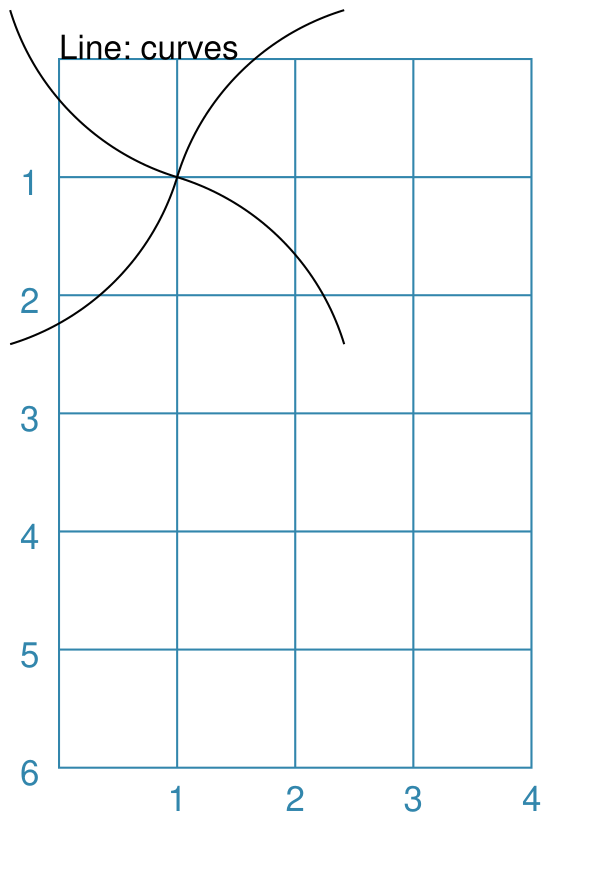
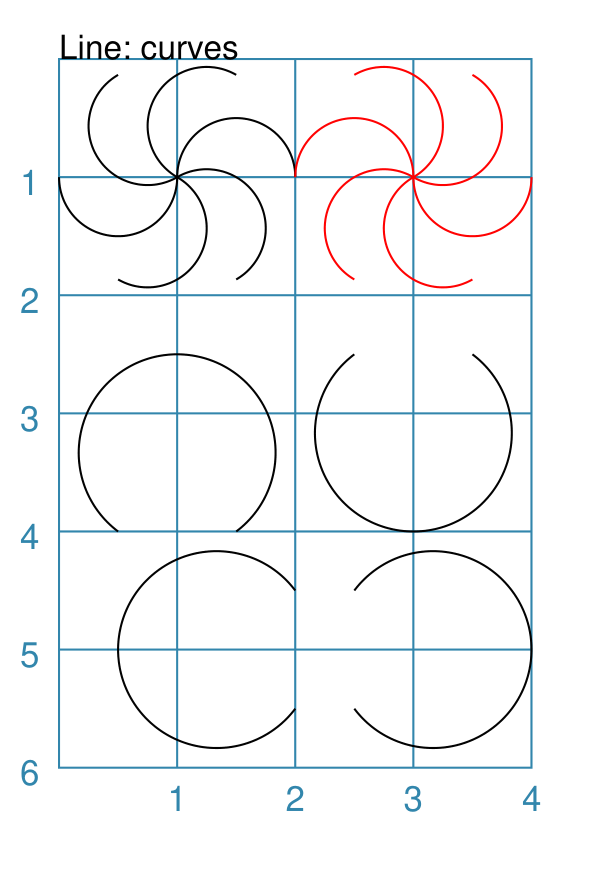
Add circle as arrow_style for a Line

diff --git a/protograf/base.py b/protograf/base.py
@@ -1860,8 +1860,8 @@ class BaseShape:
                 "s",
                 "triangle",  # default
                 "t",
-                # "circle",
-                # "c",
+                "circle",
+                "c",
             ]:
                 issue.append(f'"{self.arrow_style}" is an invalid arrow_style!')
                 correct = False
@@ -3071,7 +3071,7 @@ class BaseShape:
                 case "triangle" | "t":
                     pass
                 case "spear" | "s":
-                    pt4 = geoms.Point(the_tip.x, the_tip.y + 2 * head_height)
+                    pt4 = geoms.Point(the_tip.x, the_tip.y + 2.0 * head_height)
                     vertexes.append(pt4)
                 case "angle" | "angled" | "a":
                     kwargs["stroke_width"] = self.stroke_width
@@ -3080,10 +3080,18 @@ class BaseShape:
                 case "notch" | "notched" | "n":
                     pt4 = geoms.Point(the_tip.x, the_tip.y + 0.5 * head_height)
                     vertexes.append(pt4)
-            # set props
+                case "circle" | "c":
+                    pt4 = geoms.point_on_line(point_end, point_start, head_height / 2.0)
+            # ---- draw and set props
             # print(f'{vertexes=}' {kwargs=}')
             self._debug(cnv, vertices=vertexes)  # needs: self.debug=True
-            cnv.draw_polyline(vertexes)
+            match _lower(self.arrow_style):
+                case "circle" | "c":
+                    cnv.draw_circle(center=(pt4.x, pt4.y), radius=head_width / 2.0)
+                    kwargs["rotation"] = None
+                    kwargs["rotation_point"] = None
+                case _:
+                    cnv.draw_polyline(vertexes)
             self.set_canvas_props(cnv=cnv, index=None, **kwargs)
 
     def make_path_vertices(self, cnv, vertices: list, v1: int, v2: int):

diff --git a/examples/core/customised_line.py b/examples/core/customised_line.py
@@ -73,15 +73,17 @@ PageBreak()
 Blueprint(stroke_width=0.5)
 Text(common=txt, text="Line: angle")
 
-Line(cx=1, cy=1, angle=45, length=2, stroke="red")
-Line(cx=3, cy=1, angle=225, length=2, stroke_width=1.5)
+Line(cx=1, cy=1, angle=45, length=2, stroke="red", arrow_style="circle")
+Line(cx=3, cy=1, angle=225, length=2, stroke_width=1.5,
+     arrow_style="circle", arrow_width=0.2)
 
 Circle(cx=2, cy=3, radius=1)
 Line(cx=2, cy=3, angle=45, length=2, stroke="red", arrow_width=0.2)
 Line(cx=2, cy=3, angle=135, length=2, stroke_width=1.5, arrow_width=0.2)
 
-Line(cx=1, cy=5, angle=135, length=2, stroke_width=1.5)
-Line(cx=3, cy=5, angle=315, length=2, stroke="red")
+Line(cx=1, cy=5, angle=135, length=2, stroke_width=1.5,
+     arrow_style="circle", arrow_width=0.2)
+Line(cx=3, cy=5, angle=315, length=2, stroke="red", arrow_style="circle")
 PageBreak()
 
 # ---- line - connections: circle

diff --git a/protograf/shapes.py b/protograf/shapes.py
@@ -858,7 +858,7 @@ class DotShape(BaseShape):
         self.fill = self.stroke
         center = muPoint(x, y)
         # ---- draw dot
-        # feedback(f'*** Dot {size=} {x=} {y=}')
+        # feedback(f'*** Dot {size=} {x=} {y=} {center=} {self._u.radius=}')
         cnv.draw_circle(center=center, radius=self._u.radius)
         kwargs["rotation"] = self.rotation
         kwargs["rotation_point"] = center

diff --git a/docs/source/customised_shapes.rst b/docs/source/customised_shapes.rst
@@ -578,9 +578,12 @@ A line can be drawn at a centre point by providing the following properties:
       .. code:: python
 
         Line(cx=1, cy=1, angle=45,
-             length=2, stroke="red")
+             length=2, stroke="red",
+             arrow_style="circle")
         Line(cx=3, cy=1, angle=225,
-             length=2, stroke_width=1.5)
+             length=2, stroke_width=1.5,
+             arrow_style="c",
+             arrow_width=0.2)
 
         Circle(cx=2, cy=3, radius=1)
         Line(cx=2, cy=3, angle=45, length=2,
@@ -589,20 +592,29 @@ A line can be drawn at a centre point by providing the following properties:
              stroke_width=1.5, arrow_width=0.2)
 
         Line(cx=1, cy=5, angle=135,
-             length=2, stroke_width=1.5)
+             length=2, stroke_width=1.5
+             arrow_style="circle",
+             arrow_width=0.2)
         Line(cx=3, cy=5, angle=315,
-             length=2, stroke="red")
+             length=2, stroke="red",
+             arrow_style="c")
 
       The top two lines are rotated at 45 |deg| (red) and 255 |deg|
-      (thick black).
+      (thick black). The direction of rotation is shown by the
+      circular "arrowhead" at the end of each line.
 
       The bottom two lines are rotated at 135 |deg| (thick black) and
-      315 |deg| (red).
+      315 |deg| (red).  The direction of rotation is shown by the
+      circular "arrowhead" at the end of each line.
 
-      While each pair appears to be "in the same direction", the use of the
-      arrow property will display the actual direction; so the 45 |deg| (red)
-      line in the circle points to 45 |deg|, while the 135 |deg|
-      (thick black) points to 135 |deg|.
+      While each of the red/black pairs appear to be "in the same
+      direction" |dash| or parallel |dash| the use of the arrow property
+      displays the actual direction.
+
+      Similarly, in the circle, 45 |deg| (red) line in the circle points
+      north-east, while the 135 |deg| (thick black) points to north-west.
+
+      For more on use of arrowheads, see `Example 3. Arrowheads on Line`_.
 
 ===== ======
 
@@ -618,19 +630,20 @@ In addition to styling a Line, it is also possible to specify an arrow
 signify direction.
 
 This is different from the standalone :ref:`Arrow <arrow-command>` which
-allows a much higher degree of customisation.
+allows a much higher degree of customisation and styling.
 
 The following properties can be set:
 
 - *arrow* - if set to ``True`` will cause a default arrow to be drawn
-- *arrow_style* - can be set to ``notch``, ``angle``, or ``spear`` to change
-  the default shape of the arrow
+- *arrow_style* - can be set to ``notch``, ``angle``, ``circle``, or
+  ``spear`` to change the default shape of the arrow
 - *arrow_fill* - set the color of the arrow, which otherwise defaults to the
   color of the line
 - *arrow_stroke* - set the color of the arrow with style ``angle``, which
   otherwise defaults to the color of the line
 - *arrow_width* - set the width of the arrow at its base,  which otherwise
-  defaults to a multiple of the line width
+  defaults to a multiple of the line width |dash| it also sets the radius of
+  the arrow if its shape is circular
 - *arrow_height* - set the height of the arrow, which otherwise
   defaults to a value proportional to the arrow *width* |dash| specifically,
   the height of the equilateral triangle used for the default arrow style
@@ -727,7 +740,6 @@ The following properties can be set:
              arrow_position=[0.25, 0.5, 0.75])
         Line(x=2.5, y=6, x1=2.5, y1=5,
              arrow_position=[1.0, 0.93])
-
         # two lines superimposed
         Line(x=3, y=6, x1=4, y1=5,
              arrow_style='spear',
@@ -769,7 +781,7 @@ The following properties can be set:
       of values means the arrow is drawn in multiple places along the line.
 
       The bottom left image shows how the default arrow expands in size
-      proportional to the thickness (*stroke_width*) of the Line. Again,
+      proportional to the thickness (*stroke_width*) of the line. Again,
       because ``arrow_double=True`` the same arrow is drawn twice; facing
       in each direction, but the ``arrow_position=0.66`` property means
       the arrows are each drawn about two-thirds of the way along the line,
@@ -778,6 +790,8 @@ The following properties can be set:
       The bottom right image is a "cheat" of sorts.  Two lines are drawn in
       the same location but with different styled arrows in different
       positions.
+
+      An example of a circle arrowhead is shown in `Example 2. Centred Line`_
 
 ===== ======
 
